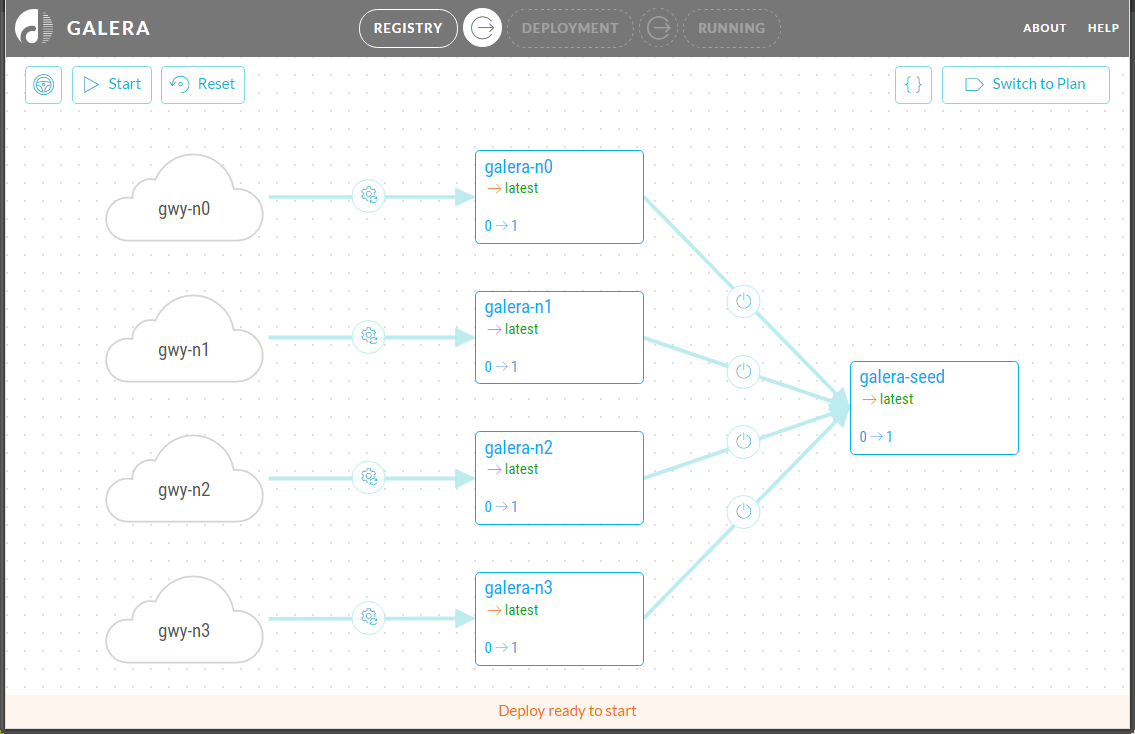
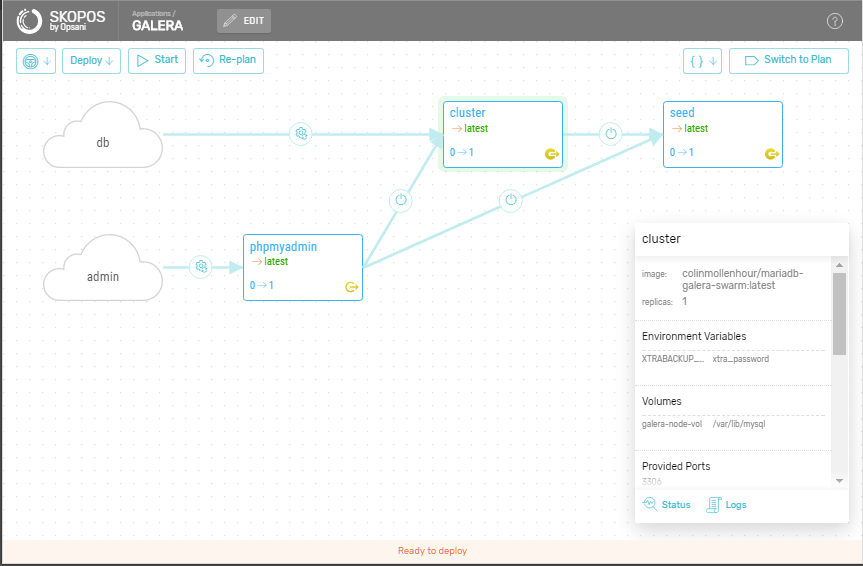
re-work galera app:  use swarm routing mesh; use global service for cluster nodes; add phpmyadmin; add quality gates; update readme

diff --git a/README.md b/README.md
@@ -6,43 +6,36 @@
 
 This is a sample application which can be used to deploy a MariaDB Galera Cluster to Docker Swarm:  this is a multi-master cluster for MariaDB which supports the XtraDB/InnoDB storage engines on Linux.  For more information please see [what is MariaDB Galera cluster](https://mariadb.com/kb/en/mariadb/what-is-mariadb-galera-cluster/).
 
-In this sample implementation, a seed node is used to bootstrap the cluster.  It is the source of the original data with which the newly created galera nodes sync, and it is thereafter discarded.  The galera cluster seed and its nodes all use the public docker image `colinmollenhour/mariadb-galera-swarm:latest`.  Please see [this page](https://github.com/colinmollenhour/mariadb-galera-swarm) for details.
+According to the use case, there are many ways to deploy a clustered database to swarm.  For simplicity, this sample implementation uses these three services:
 
-Below is a view of the sample application model with its bootstrap seed and four galera nodes:
+* `seed`:  the galera seed node is used to bootstrap the cluster.  It is the source of the original data with which the newly created galera nodes sync, and it is thereafter discarded (alternatively it may be re-purposed to join the new galera cluster as a node).  The seed is configured to create a user `my_user` with password `my_password` with access to database `my_database`.
+* `cluster`:  the galera cluster nodes deploy as a single global service (one galera node per swarm node) with a further constraint that each usable swarm node also have the label `db==yes` (this can be used to control the total number of galera nodes, and which swarm nodes they deploy to).  _The sample app requires at least two swarm nodes to be assigned this label._
+* `phpmyadmin`:  this singleton service exposes a database administration web interface on port `10000` of the swarm.  _phpMyAdmin_ is configured to allow connecting to an arbitray database server, so it can be used to administer any of the galera nodes.  The galera cluster API is also exposed on port `10001` of the swarm and can be accessed with the mysql command line client.
+
+The galera cluster seed and its nodes all use the public docker image `colinmollenhour/mariadb-galera-swarm:latest`.  Please see this [docker hub](https://hub.docker.com/r/colinmollenhour/mariadb-galera-swarm/) page for details.
+
+Below is a view of the sample application model:
 
 ![model-bootstrap](img/model-bootstrap.png)
 
-Each galera node is constrained to run on any swarm node with a particular label.  This design provides for each galera node to be constrained to a pair of swarm nodes (hosts with a matching label), and for these pairs of swarm nodes to be laid out in a non-overlapping fashion for a given galera cluster.  The intent is to provide galera node failover in the event of a swarm node failure:  the galera node on the failed swarm node is re-started on the other swarm node of its labeled pair where it may sync its data and recover the galera cluster.
+### Application Files
 
-### Accessing the Galera Cluster
+The application includes a model descriptor `model.yaml`, and two environment descriptors which may be used in combination:
 
-This sample application publishes each galera node's mariadb port (3306) on the host it is running (`PublishMode: host`), rather than publishing this port for the service using the swarm routing mesh.  Docker 17.03.0-ce suffers from docker issue [31249](https://github.com/docker/docker/issues/31249) - two services constrained to different swarm nodes cannot expose the same port using mode=host. Because of this, each of the four galera node services of this app uses a different port in the range 10000-10003.
-
-To change this behavior and use the swarm routing mesh instead of a single host port map for each node:
-
-* Remove or comment out from the model the separate per-node gateways section
-* Uncomment the gateways section at the end of the model to expose the galera nodes on the swarm routing mesh.
-
-### Environment Files
-
-The application includes several environment files to be used in combination.  Skopos merges environment files in the order they are provided, so different combinations of environment files may be used to bootstrap the cluster or update the cluster in normal use (without the seed node).  The sample app includes these environment files:
-
-* `env.yaml`:  the base environment file common to all deploys.  It defines plugins, volume names and variables.
-* `env.ports.yaml`:  an environment which defines the port to be exposed for each galera node on its host.  Different copies of this file may be used to deploy multiple galera clusters to the same swarm.
-* `env.bootstrap.yaml`:  an environment which simply sets the galera seed node replicas count to 1.  This file is used when bootstrapping a galera cluster.
+* `env.yaml`:  the base environment file common to all deployments.  It specifies variables, plugin configuration, and quality gates for the galera nodes.  The quality gates use Skopos probes to verify the successful deployment each galera node:
+    * [http probe](https://github.com/opsani/probe-http):  verify the galera image built-in healthcheck on port `8080`.
+    * [mariadb probe](https://github.com/opsani/probe-mariadb) verify the user created with the seed can access the mysql API and the created database `my_database` on the application network.
+* `env.bootstrap.yaml`:  an environment file which simply sets the galera seed node replicas count to `1` (instead of the default `0`).  This file is used when bootstrapping a galera cluster.
 
 ### Usage Notes
 
-* The seed in this sample app uses a randomly named volume on instance creation for its mariadb seed data.
-* The seed, and each node, is created as its own service, and each is represented by its own skopos component.  Each of these is constrained to be placed on a swarm node matching a label.  
-* Swarm node preparation:
-    * Label one or more nodes of the swarm with `gseed` (e.g., `docker node update --label-add gseed=1 <node-id>`).  The seed will be created on one of the labeled nodes.
-    * Divide the swarm nodes into non-overlapping pairs.  Label four of these pairs so that each pair has one of these labels: `gpair0`, `gpair1`, `gpair2`, or `gpair3` each with a value of 1.
-* To bootstrap the galera cluster, deploy using all three environment files.  To remove the seed node, or upgrade the cluster, omit `env.bootstrap.yaml`.
+* The seed in this sample app uses a randomly named volume on instance creation for its mariadb seed data. Each galera cluster node uses a volume named `galera-node-db` for its data.
+* Swarm node preparation:  label two or more nodes of the swarm with `db=yes` (e.g., `docker node update --label-add db=yes <node-id>`).  A galera cluster node will be created on each labeled swarm node.  The cluster seed will be created on a swarm manager node.
+* To bootstrap the galera cluster, deploy using both environment files.  To remove the seed node, or upgrade the cluster, omit `env.bootstrap.yaml`.
 
 ### Quick Start Example
 
-This is a stream-lined quick-start example.  See the [Skopos documentation](http://doc.opsani.com/skopos/edge/README/) for detailed information.
+This is a stream-lined quick-start example.  See the [Skopos documentation](http://doc.opsani.com/skopos/edge/) for detailed information.
 
 Install the `skopos` command line utility on a swarm manager node as `~/bin/skopos`:
 ```
@@ -56,34 +49,57 @@ Start the Skopos engine on the same node (example binds to the default port 8100
 
 ```
 docker run -d -p 8100:8100 --restart=unless-stopped --name skopos \
-   -v /var/run/docker.sock:/var/run/docker.sock \
-   opsani/skopos:edge
+-v /var/run/docker.sock:/var/run/docker.sock opsani/skopos:edge
 ```
 
-Clone this repo to a working directory:
+Label **two or more** swarm nodes as described above.  Verify the swarm provides access to ports 10000-10001 to the outside world (so you can access the sample application web UIs with a browser after it is deployed).
+
+Load the sample application into Skopos directly from github:
+
 ```
-git clone https://github.com/opsani/skopos-sample-galera.git
+~/bin/skopos load --project galera \
+--env github://opsani/skopos-sample-galera/env.yaml \
+--env github://opsani/skopos-sample-galera/env.bootstrap.yaml \
+github://opsani/skopos-sample-galera/model.yaml
 ```
 
-Label the swarm nodes as described above.  Verify all swarm hosts expose the ports 10000-10003 to the outside world.
+The Skopos UI, accessible on port 8100 of the manager node, now shows the `galera` application on the application list.  Click to open this application - showing its model ready for the bootstrap deploy.
 
-From the directory containing the application model and environment files, load the application:
-```
-~/bin/skopos load -project galera -env env.yaml -env env.ports.yaml -env env.bootstrap.yaml model.yaml
-```
+* Click `Start` to start the deployment
+* Click `Switch to Plan` to see a logical flow diagram of the deployment plan.  This plan, like the model, visually indicates progress and status during deployment.  Click on the `seed` service to zoom-in to the component plan details.  Here you can see the quality probes which validate the successful deployment of the seed.
 
-The Skopos UI, accessible on port 8100 of the manager node, now displays the model ready for its bootstrap deploy.  Once the cluster is deployed, the seed may be destroyed by deploying with:
+Once the cluster is deployed, the seed may be destroyed by deploying without the bootstrap environment descriptor:
+
 ```
-~/bin/skopos load -project galera -env env.yaml -env env.ports.yaml model.yaml
+~/bin/skopos load --project galera \
+--env github://opsani/skopos-sample-galera/env.yaml \
+github://opsani/skopos-sample-galera/model.yaml
 ```
 
 ### Verification
 
-A quick verification:
+A quick verification of the deployed galera cluster involves creating a table in database `my_database` on one galera node, and verifying this table is also created (sync'ed) on the other galera nodes (including the seed, if it is running).
 
-* Docker exec into and run the mysql client on one of the galera nodes:  `docker exec -ti <id> mysql -u root -p`.  Provide the password `asdf` from the env file.
-* Create a user with remote access permissions (*not secure*):
-    * `CREATE USER 'qwer'@'%' IDENTIFIED BY 'qwer';`
-    * `GRANT ALL ON *.* TO 'qwer'@'%';`
-* From a remote host with the mysql client installed, access one of the galera nodes:  `mysql -u qwer --host <ip> --port <port> -p`  Provide the password `qwer`.
-* Verify the galera cluster syncs:  create a database on one node and verify this change propagates to all nodes.
+**Access with phpMyAdmin**
+
+The web interface for phyMyAdmin is accessible on port `10000` of the swarm.  Log in requires the user name `my_user`, password `my_password`.  Because phpMyAdmin is configured via an environment variable in the model to allow access to an arbitrary database server, you must also supply an IP address or DNS name for a server as indicated below:
+
+* To access mariadb on the seed use server:
+    * `seed`:  this resolves to the seed service, which has a single instance, and so provides access to the seed node of the galera cluster.  You can also use `tasks.seed`.
+* To access mariadb on an arbitrary galera cluster node use server:
+    * `cluster`:  this resolves to the cluster service, and will provide access to whatever galera node is resolved by the swarm routing mesh.  You can also use `tasks.cluster`.
+* To access mariadb on a particular galera cluster node use server:
+    * `<service.slot.taskid>`:  this resolves to a particular galera node as indicated.  The values for `service`, `slot` and `taskid` can be obtained from the output of `docker service ps --no-trunc galera_cluster` where `service.slot` is represented as the _NAME_ of the task (e.g. `galera_cluster.t9ewvghu1sjsju3utcc9n6d5l`) and `taskid` is represed as the un-truncated _ID_ (e.g. `r1absmv3wg6hr77o86l18vzbp`).  You can also use the _CONTAINER ID_ for the galera node returned by `docker ps` on a particular swarm node.
+
+**Access with the mysql cmdline client**
+
+The mariadb API for the galera cluster is exposed on port `10001` of the swarm (resolves to an arbitrary galera cluster node).  This API can be accessed with a mysql client (e.g., `apt-get install mysql-client` on Ubuntu/Debian or `yum install mysql` on CentOs/RedHat).  
+
+To connect to the mariadb API on an arbitray galera node run `mysql -u my_user --host <swarm_IP> --port 10001 --password=my_password` from the command line of any host with network access to the swarm.  Within the mysql client cmdline interface, execute the following commands to create a new table `my_table` in the database `my_database`, and to show the hostname of the galera cluster node servicing the request (this is the same as the container instance ID):
+
+```
+use my_database;
+create table my_table (my_column int);
+show tables;
+show variables where variable_name = 'hostname';
+```
